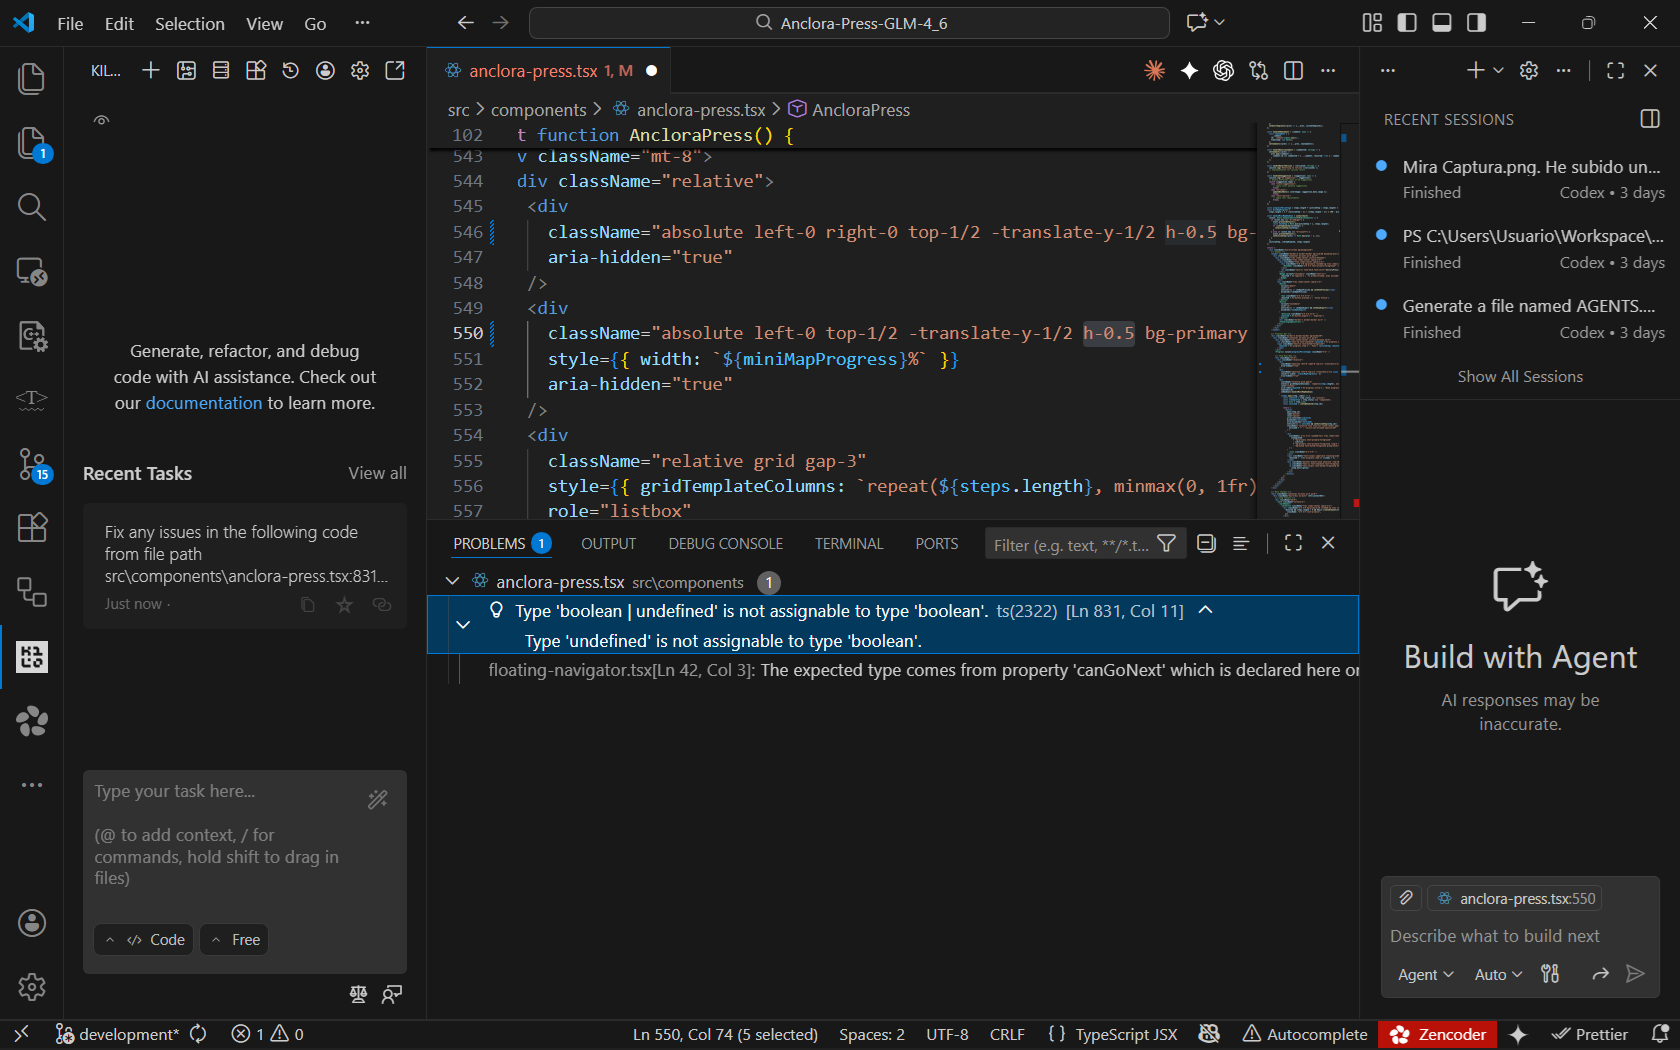
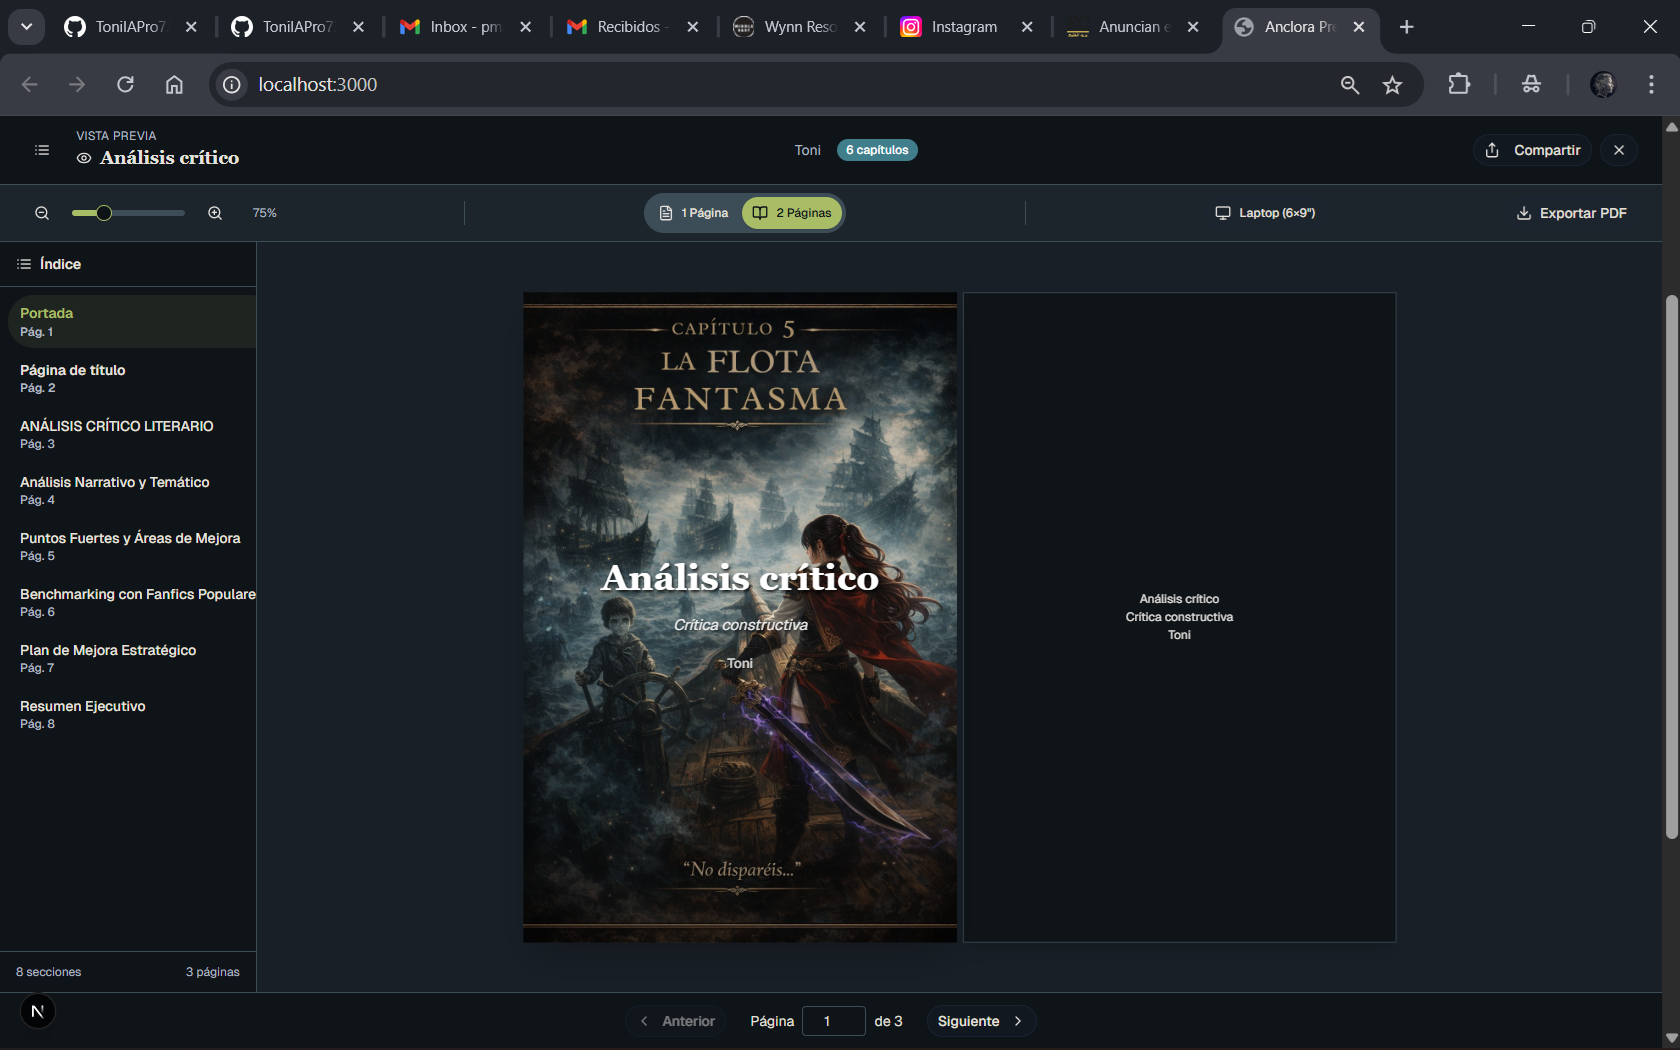
● Excelente! El build compila exitosamente. He completado todas las mejoras solicitadas:
✅ Problemas Resueltos

  1. Diseño de portada inferior no se refleja en el preview

  Solución implementada:
  - Añadidos campos coverLayout y coverFont a la interfaz BookData
  - Actualizado cover-editor.tsx para:
    - Aceptar props coverLayout y coverFont
    - Callbacks onLayoutChange y onFontChange que actualizan el bookData
    - Guardar layout seleccionado cuando el usuario lo cambia
  - Actualizado cover-page.tsx para:
    - Usar configuraciones de layout idénticas al editor (centered, top, bottom, split)
    - Aplicar las clases de layout dinámicamente
    - Aplicar la tipografía seleccionada
  - Actualizado preview-builder.ts para pasar estos datos al coverData

  Ahora el preview refleja exactamente:
  - ✅ Diseño seleccionado (centrado, superior, inferior, dividido)
  - ✅ Tipografía seleccionada (todas las fuentes disponibles)

  2. Tipografías después de la segunda no cambian el texto

  Causa: El evento onValueChange solo actualizaba el estado local pero no notificaba al bookData

  Solución: Añadido callback onFontChange que se ejecuta cada vez que el usuario selecciona una tipografía, actualizando el bookData correctamente.

  3. Solo se muestran 3 páginas en total

  Causa: El sistema tenía un TODO pendiente y solo creaba una página de contenido

  Solución implementada:
  - Actualizado buildPreviewPages() para usar paginateContent() y paginateContentWithMeasurement()
  - El contenido ahora se divide en múltiples páginas basándose en:
[…]

diff --git a/src/components/cover-page.tsx b/src/components/cover-page.tsx
@@ -5,9 +5,9 @@
  * Renders the book cover with image or color background
  */
 
-import { PreviewFormat, FORMAT_PRESETS } from '@/lib/device-configs';
-import { CoverData } from '@/lib/preview-builder';
-import { cn } from '@/lib/utils';
+import { PreviewFormat, FORMAT_PRESETS } from "@/lib/device-configs";
+import { CoverData } from "@/lib/preview-builder";
+import { cn } from "@/lib/utils";
 
 interface CoverPageProps {
   coverData: CoverData;
@@ -15,19 +15,61 @@ interface CoverPageProps {
   className?: string;
 }
 
+// Layout configurations matching cover-editor.tsx
+const layoutConfigs: Record<
+  string,
+  {
+    container: string;
+    content: string;
+    title: string;
+    author: string;
+  }
+> = {
+  centered: {
+    container: "justify-center items-center text-center",
+    content: "space-y-6 items-center text-center",
+    title: "text-center",
+    author: "text-center",
+  },
+  top: {
+    container: "justify-start items-start text-left",
+    content: "space-y-6 items-start text-left pt-8",
+    title: "text-left",
+    author: "text-left",
+  },
+  bottom: {
+    container: "justify-end items-end text-right",
+    content: "space-y-6 items-end text-right pb-8",
+    title: "text-right",
+    author: "text-right",
+  },
+  split: {
+    container: "justify-between items-stretch text-left",
+    content: "h-full w-full text-left flex flex-col justify-between",
+    title: "text-left",
+    author: "text-right mt-auto",
+  },
+};
+
 export function CoverPage({ coverData, format, className }: CoverPageProps) {
   const dimensions = FORMAT_PRESETS[format];
+  const layout = coverData.coverLayout || "centered";
+  const layoutConfig = layoutConfigs[layout] || layoutConfigs.centered;
+  const fontClass = coverData.coverFont || "font-serif";
 
   return (
     <div
       className={cn(
-        "relative flex flex-col items-center justify-center text-center bg-cover bg-center shadow-2xl overflow-hidden",
+        "relative flex flex-col bg-cover bg-center shadow-2xl overflow-hidden",
+        layoutConfig.container,
         className
       )}
       style={{
         width: `${dimensions.viewportWidth}px`,
         height: `${dimensions.pagePixelHeight}px`,
-        backgroundColor: coverData.coverImage ? 'transparent' : coverData.coverColor,
+        backgroundColor: coverData.coverImage
+          ? "transparent"
+          : coverData.coverColor,
       }}
     >
       {/* Background image if provided */}
@@ -39,23 +81,24 @@ export function CoverPage({ coverData, format, className }: CoverPageProps) {
           }}
         >
           {/* Gradient overlay for better text readability */}
-          <div className="absolute inset-0 bg-gradient-to-b from-black/30 via-transparent to-black/50" />
+          <div className="absolute inset-0 bg-linear-to-b from-black/30 via-transparent to-black/50" />
         </div>
       )}
 
       {/* Cover content */}
-      <div className="relative z-10 px-8 py-12 space-y-6 max-w-full">
+      <div className={cn("relative z-10 px-8 py-12 max-w-full", layoutConfig.content, fontClass)}>
         {/* Title */}
         <h1
           className={cn(
-            "font-serif font-bold text-white drop-shadow-lg leading-tight",
-            format === 'mobile' && "text-2xl",
-            format === 'ereader' && "text-3xl",
-            format === 'tablet' && "text-4xl",
-            format === 'laptop' && "text-5xl"
+            "font-bold text-white drop-shadow-lg leading-tight",
+            layoutConfig.title,
+            format === "mobile" && "text-2xl",
+            format === "ereader" && "text-3xl",
+            format === "tablet" && "text-4xl",
+            format === "laptop" && "text-5xl"
           )}
           style={{
-            textShadow: '2px 2px 4px rgba(0,0,0,0.8)',
+            textShadow: "2px 2px 4px rgba(0,0,0,0.8)",
           }}
         >
           {coverData.title}
@@ -66,13 +109,14 @@ export function CoverPage({ coverData, format, className }: CoverPageProps) {
           <p
             className={cn(
               "italic text-white/90 drop-shadow-md",
-              format === 'mobile' && "text-sm",
-              format === 'ereader' && "text-base",
-              format === 'tablet' && "text-lg",
-              format === 'laptop' && "text-xl"
+              layoutConfig.title,
+              format === "mobile" && "text-sm",
+              format === "ereader" && "text-base",
+              format === "tablet" && "text-lg",
+              format === "laptop" && "text-xl"
             )}
             style={{
-              textShadow: '1px 1px 3px rgba(0,0,0,0.7)',
+              textShadow: "1px 1px 3px rgba(0,0,0,0.7)",
             }}
           >
             {coverData.subtitle}
@@ -82,14 +126,16 @@ export function CoverPage({ coverData, format, className }: CoverPageProps) {
         {/* Author */}
         <p
           className={cn(
-            "text-white/80 font-medium mt-auto",
-            format === 'mobile' && "text-xs",
-            format === 'ereader' && "text-sm",
-            format === 'tablet' && "text-base",
-            format === 'laptop' && "text-lg"
+            "text-white/80 font-medium",
+            layoutConfig.author,
+            layout === "split" && "mt-auto",
+            format === "mobile" && "text-xs",
+            format === "ereader" && "text-sm",
+            format === "tablet" && "text-base",
+            format === "laptop" && "text-lg"
           )}
           style={{
-            textShadow: '1px 1px 2px rgba(0,0,0,0.6)',
+            textShadow: "1px 1px 2px rgba(0,0,0,0.6)",
           }}
         >
           {coverData.author}
@@ -101,7 +147,8 @@ export function CoverPage({ coverData, format, className }: CoverPageProps) {
         <div
           className="absolute bottom-0 left-0 right-0 h-1"
           style={{
-            background: 'linear-gradient(90deg, transparent, rgba(255,255,255,0.3), transparent)',
+            background:
+              "linear-gradient(90deg, transparent, rgba(255,255,255,0.3), transparent)",
           }}
         />
       )}

diff --git a/src/lib/preview-builder.ts b/src/lib/preview-builder.ts
@@ -23,6 +23,8 @@ export interface BookData {
   template: string;
   coverImage: string | null;
   coverColor: string;
+  coverLayout?: string;
+  coverFont?: string;
   genre: string;
   chapters?: ChapterPreview[];
 }
@@ -33,6 +35,8 @@ export interface CoverData {
   author: string;
   coverImage: string | null;
   coverColor: string;
+  coverLayout?: string;
+  coverFont?: string;
 }
 
 export type PageType = 'cover' | 'title' | 'content';
@@ -190,6 +194,8 @@ export function buildPreviewPages(
       author: book.author || 'Autor desconocido',
       coverImage: book.coverImage,
       coverColor: book.coverColor || '#0088a0',
+      coverLayout: book.coverLayout || 'centered',
+      coverFont: book.coverFont || 'font-serif',
     },
   });
 
@@ -238,13 +244,34 @@ export function buildPreviewPages(
   // Convert markdown to HTML
   const contentHtml = convertMarkdownToHtml(fullContent);
 
-  // For now, create a single content page
-  // TODO: Implement proper pagination in content-paginator.ts
-  pages.push({
-    type: 'content',
-    content: contentHtml,
-    pageNumber: pages.length,
-  });
+  // Paginate content into multiple pages
+  if (typeof window !== 'undefined') {
+    // Client-side: use actual DOM measurement for accurate pagination
+    try {
+      const { paginateContentWithMeasurement } = require('./content-paginator');
+      const contentPages = paginateContentWithMeasurement(contentHtml, config, document.body);
+      pages.push(...contentPages.map((page, idx) => ({
+        ...page,
+        pageNumber: pages.length + idx,
+      })));
+    } catch (error) {
+      // Fallback: single page if measurement fails
+      console.warn('Pagination measurement failed, using single page:', error);
+      pages.push({
+        type: 'content' as const,
+        content: contentHtml,
+        pageNumber: pages.length,
+      });
+    }
+  } else {
+    // Server-side: use estimation-based pagination
+    const { paginateContent } = require('./content-paginator');
+    const contentPages = paginateContent(contentHtml, config);
+    pages.push(...contentPages.map((page, idx) => ({
+      ...page,
+      pageNumber: pages.length + idx,
+    })));
+  }
 
   return pages;
 }

diff --git a/src/components/cover-editor.tsx b/src/components/cover-editor.tsx
@@ -38,8 +38,12 @@ interface CoverEditorProps {
   author: string;
   coverColor: string;
   coverImage: string | null;
+  coverLayout?: string;
+  coverFont?: string;
   onCoverChange: (coverImage: string | null) => void;
   onColorChange: (coverColor: string) => void;
+  onLayoutChange?: (coverLayout: string) => void;
+  onFontChange?: (coverFont: string) => void;
 }
 
 const colorPresets = [
@@ -232,12 +236,16 @@ export default function CoverEditor({
   author,
   coverColor,
   coverImage,
+  coverLayout,
+  coverFont,
   onCoverChange,
   onColorChange,
+  onLayoutChange,
+  onFontChange,
 }: CoverEditorProps) {
   const { t, mounted, language } = useLanguage();
-  const [selectedLayout, setSelectedLayout] = useState("centered");
-  const [selectedFont, setSelectedFont] = useState("font-serif");
+  const [selectedLayout, setSelectedLayout] = useState(coverLayout || "centered");
+  const [selectedFont, setSelectedFont] = useState(coverFont || "font-serif");
   const [uploadedImage, setUploadedImage] = useState<string | null>(coverImage);
   const [isGenerating, setIsGenerating] = useState(false);
   const layoutConfig = layoutPreviewConfigs[selectedLayout] || layoutPreviewConfigs.centered;
@@ -267,6 +275,9 @@ export default function CoverEditor({
     setSelectedLayout(layoutId)
     if (typeof window !== "undefined") {
       window.sessionStorage.setItem(LAYOUT_SESSION_KEY, layoutId)
+    }
+    if (onLayoutChange) {
+      onLayoutChange(layoutId)
     }
   }
 
@@ -584,7 +595,12 @@ export default function CoverEditor({
                     <Label>Selecciona una tipografía</Label>
                     <Select
                       value={selectedFont}
-                      onValueChange={(value) => setSelectedFont(value)}
+                      onValueChange={(value) => {
+                        setSelectedFont(value);
+                        if (onFontChange) {
+                          onFontChange(value);
+                        }
+                      }}
                     >
                       <SelectTrigger className="w-full">
                         <SelectValue placeholder="Selecciona una tipografía" />

diff --git a/src/components/anclora-press.tsx b/src/components/anclora-press.tsx
@@ -71,6 +71,8 @@ interface BookData {
   template: string;
   coverImage: string | null;
   coverColor: string;
+  coverLayout?: string;
+  coverFont?: string;
   genre: string;
   backCoverData?: BackCoverData | null;
   chapters?: any[];
@@ -84,6 +86,8 @@ const createEmptyBookData = (): BookData => ({
   template: "modern",
   coverImage: null,
   coverColor: "#D6BFA2",
+  coverLayout: "centered",
+  coverFont: "font-serif",
   genre: "fiction",
   backCoverData: null,
   chapters: [],
@@ -788,11 +792,19 @@ export default function AncloraPress() {
                     author={bookData.author}
                     coverColor={bookData.coverColor}
                     coverImage={bookData.coverImage}
+                    coverLayout={bookData.coverLayout}
+                    coverFont={bookData.coverFont}
                     onCoverChange={(coverImage) =>
                       updateBookData({ coverImage })
                     }
                     onColorChange={(coverColor) =>
                       updateBookData({ coverColor })
+                    }
+                    onLayoutChange={(coverLayout) =>
+                      updateBookData({ coverLayout })
+                    }
+                    onFontChange={(coverFont) =>
+                      updateBookData({ coverFont })
                     }
                   />
                 )}
